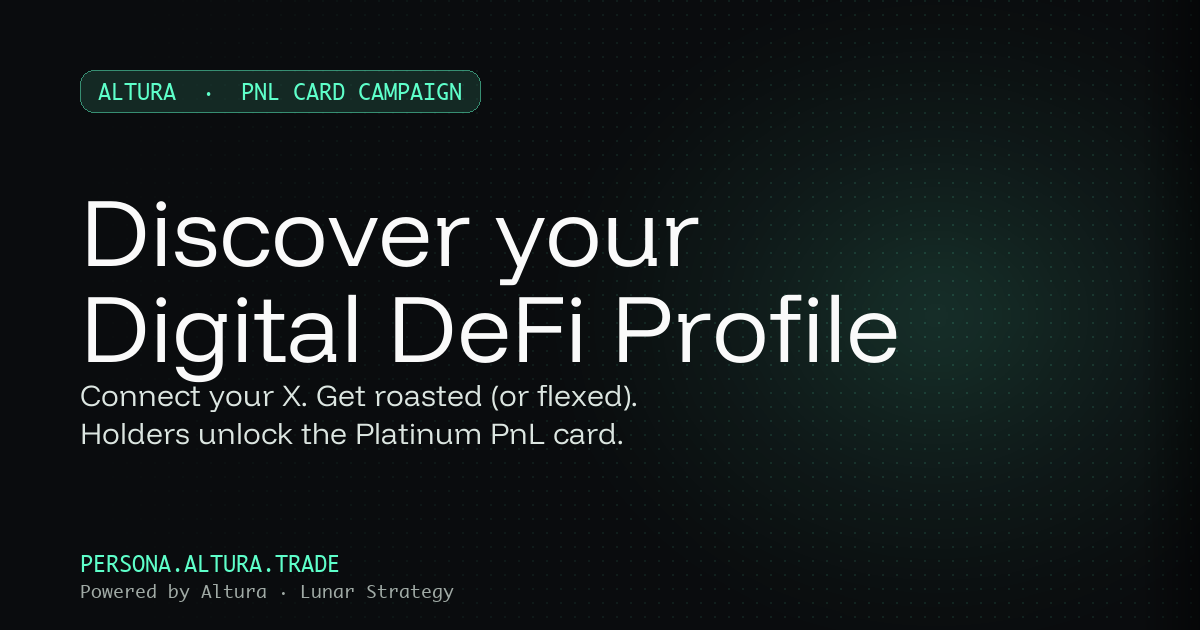
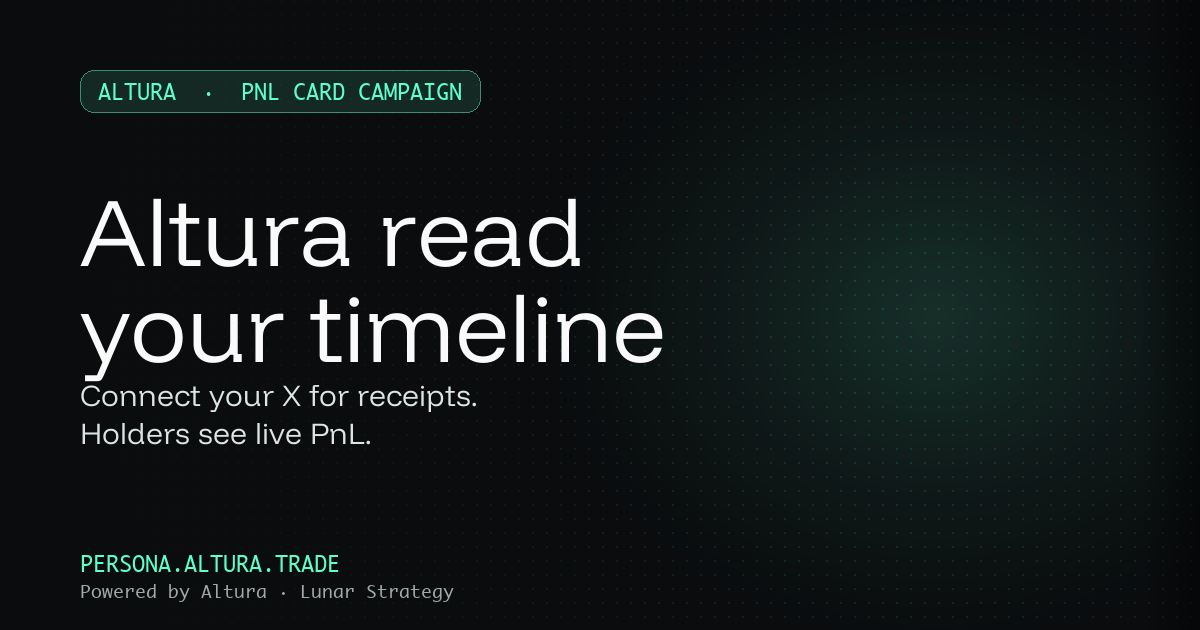
v1.5 — updated embed copy, tighter Crypto Native, mobile centering
1. Embed / OG copy updated to match campaign:
   Title: 'Altura — read your timeline'
   Description: 'Connect your X for receipts. Holders see live PnL.'
   (was: 'Discover your Digital DeFi Profile' / 'Holders unlock Platinum')
   Regenerated the 1200x630 OG PNG with the new headline + subtitle.

2. Crypto Native tightened:
   - Threshold: 1 → 2 mentions (was catching everyone on a single 'bitcoin')
   - Dropped 8 ambiguous keywords: gas, mint, pump, dump, wallet, bridge,
     yield, whale (too common in non-crypto contexts)
   - 33 keywords remain (was 41)

3. Mobile centering fixes:
   - CardScaler: added overflow: hidden so the 750px card doesn't push
     the viewport wider on first render before ResizeObserver fires
   - Root wrapper: overflow-x-hidden + max-width: 100vw
   - Action buttons: added mx-auto (was missing, could drift on narrow screens)
   - Loader already had max-w-md mx-auto px-4 — confirmed centered

Changed region(s): [[0.0617, 0.4524, 0.7708, 0.6032], [0.0617, 0.3016, 0.5858, 0.4524], [0.1542, 0.6032, 0.5242, 0.7238]]

diff --git a/index.html b/index.html
@@ -4,10 +4,10 @@
     <meta charset="UTF-8" />
     <meta name="viewport" content="width=device-width, initial-scale=1.0" />
 
-    <title>Altura — Discover your Digital DeFi Profile</title>
+    <title>Altura — read your timeline</title>
     <meta
       name="description"
-      content="Connect your X. Get roasted (or flexed). Altura holders unlock the Platinum PnL card."
+      content="Connect your X for receipts. Holders see live PnL."
     />
     <meta name="author" content="Altura · Lunar Strategy" />
     <meta name="theme-color" content="#0a0c0e" />
@@ -21,31 +21,25 @@
     <meta property="og:type" content="website" />
     <meta property="og:site_name" content="Altura" />
     <meta property="og:url" content="https://persona.altura.trade/" />
-    <meta
-      property="og:title"
-      content="Altura — Discover your Digital DeFi Profile"
-    />
+    <meta property="og:title" content="Altura — read your timeline" />
     <meta
       property="og:description"
-      content="Connect your X. Get roasted (or flexed). Altura holders unlock the Platinum PnL card."
+      content="Connect your X for receipts. Holders see live PnL."
     />
     <meta property="og:image" content="https://persona.altura.trade/og-image.png" />
     <meta property="og:image:secure_url" content="https://persona.altura.trade/og-image.png" />
     <meta property="og:image:type" content="image/png" />
     <meta property="og:image:width" content="1200" />
     <meta property="og:image:height" content="630" />
-    <meta property="og:image:alt" content="Altura — Discover your Digital DeFi Profile" />
+    <meta property="og:image:alt" content="Altura — read your timeline" />
 
     <!-- Twitter -->
     <meta name="twitter:card" content="summary_large_image" />
     <meta name="twitter:site" content="@alturax" />
-    <meta
-      name="twitter:title"
-      content="Altura — Discover your Digital DeFi Profile"
-    />
+    <meta name="twitter:title" content="Altura — read your timeline" />
     <meta
       name="twitter:description"
-      content="Connect your X. Get roasted (or flexed). Altura holders unlock the Platinum PnL card."
+      content="Connect your X for receipts. Holders see live PnL."
     />
     <meta name="twitter:image" content="https://persona.altura.trade/og-image.png" />
   </head>

diff --git a/server/src/services/persona.ts b/server/src/services/persona.ts
@@ -417,6 +417,8 @@ const KW_BASED_TAKES = [
   "degen",
 ];
 
+// Trimmed: dropped gas, mint, pump, dump, wallet, bridge, yield, whale
+// (too ambiguous in non-crypto contexts). Threshold bumped 1 → 2.
 const KW_CRYPTO_NATIVE = [
   "bitcoin",
   "btc",
@@ -430,26 +432,18 @@ const KW_CRYPTO_NATIVE = [
   "blockchain",
   "dao",
   "staking",
-  "yield",
   "dex",
   "cex",
   "tokenomics",
   "altcoin",
-  "whale",
-  "gas",
   "layer 2",
   "l2",
-  "bridge",
   "liquidity",
   "tvl",
   "onchain",
   "on-chain",
   "hodl",
   "fud",
-  "pump",
-  "dump",
-  "mint",
-  "wallet",
   "maxi",
   "hodler",
   "binance",
@@ -563,7 +557,7 @@ function classifyX(xProfile: XProfile | null): {
     // giving it a slightly lower score when tied (threshold is 1 so any
     // match qualifies, but a specific title with the same raw count wins
     // because its threshold is higher → lower score fraction).
-    { archetype: X_TITLES.cryptoNative!,    trigger: "x:crypto_native",  matches: s.cryptoNative, threshold: 1 },
+    { archetype: X_TITLES.cryptoNative!,    trigger: "x:crypto_native",  matches: s.cryptoNative, threshold: 2 },
   ];
 
   // Filter to qualifying rules (score >= 1), then pick highest score.

diff --git a/src/pages/Index.tsx b/src/pages/Index.tsx
@@ -347,8 +347,8 @@ export default function Index() {
 
   return (
     <div
-      className="min-h-screen flex flex-col overflow-hidden relative"
-      style={{ fontFamily: FONT, color: "#FAFAFA", background: "#000503" }}
+      className="min-h-screen flex flex-col overflow-x-hidden relative"
+      style={{ fontFamily: FONT, color: "#FAFAFA", background: "#000503", maxWidth: "100vw" }}
     >
       <BokehBackground />
 
@@ -541,7 +541,7 @@ export default function Index() {
                 initial={{ opacity: 0, y: 16 }}
                 animate={{ opacity: 1, y: 0 }}
                 transition={{ delay: 0.7 }}
-                className="flex flex-col sm:flex-row gap-3 mt-8 w-full max-w-3xl"
+                className="flex flex-col sm:flex-row gap-3 mt-8 w-full max-w-3xl mx-auto"
               >
                 <button
                   onClick={handleShare}

diff --git a/src/components/figma/CardScaler.tsx b/src/components/figma/CardScaler.tsx
@@ -43,6 +43,10 @@ export default function CardScaler({
         maxWidth,
         height: designHeight * scale,
         position: "relative",
+        // Prevent the unscaled 750px card from pushing the viewport
+        // wider on mobile during the first render (scale=1 → 750px,
+        // then ResizeObserver fires and scales it down).
+        overflow: "hidden",
       }}
     >
       <div
